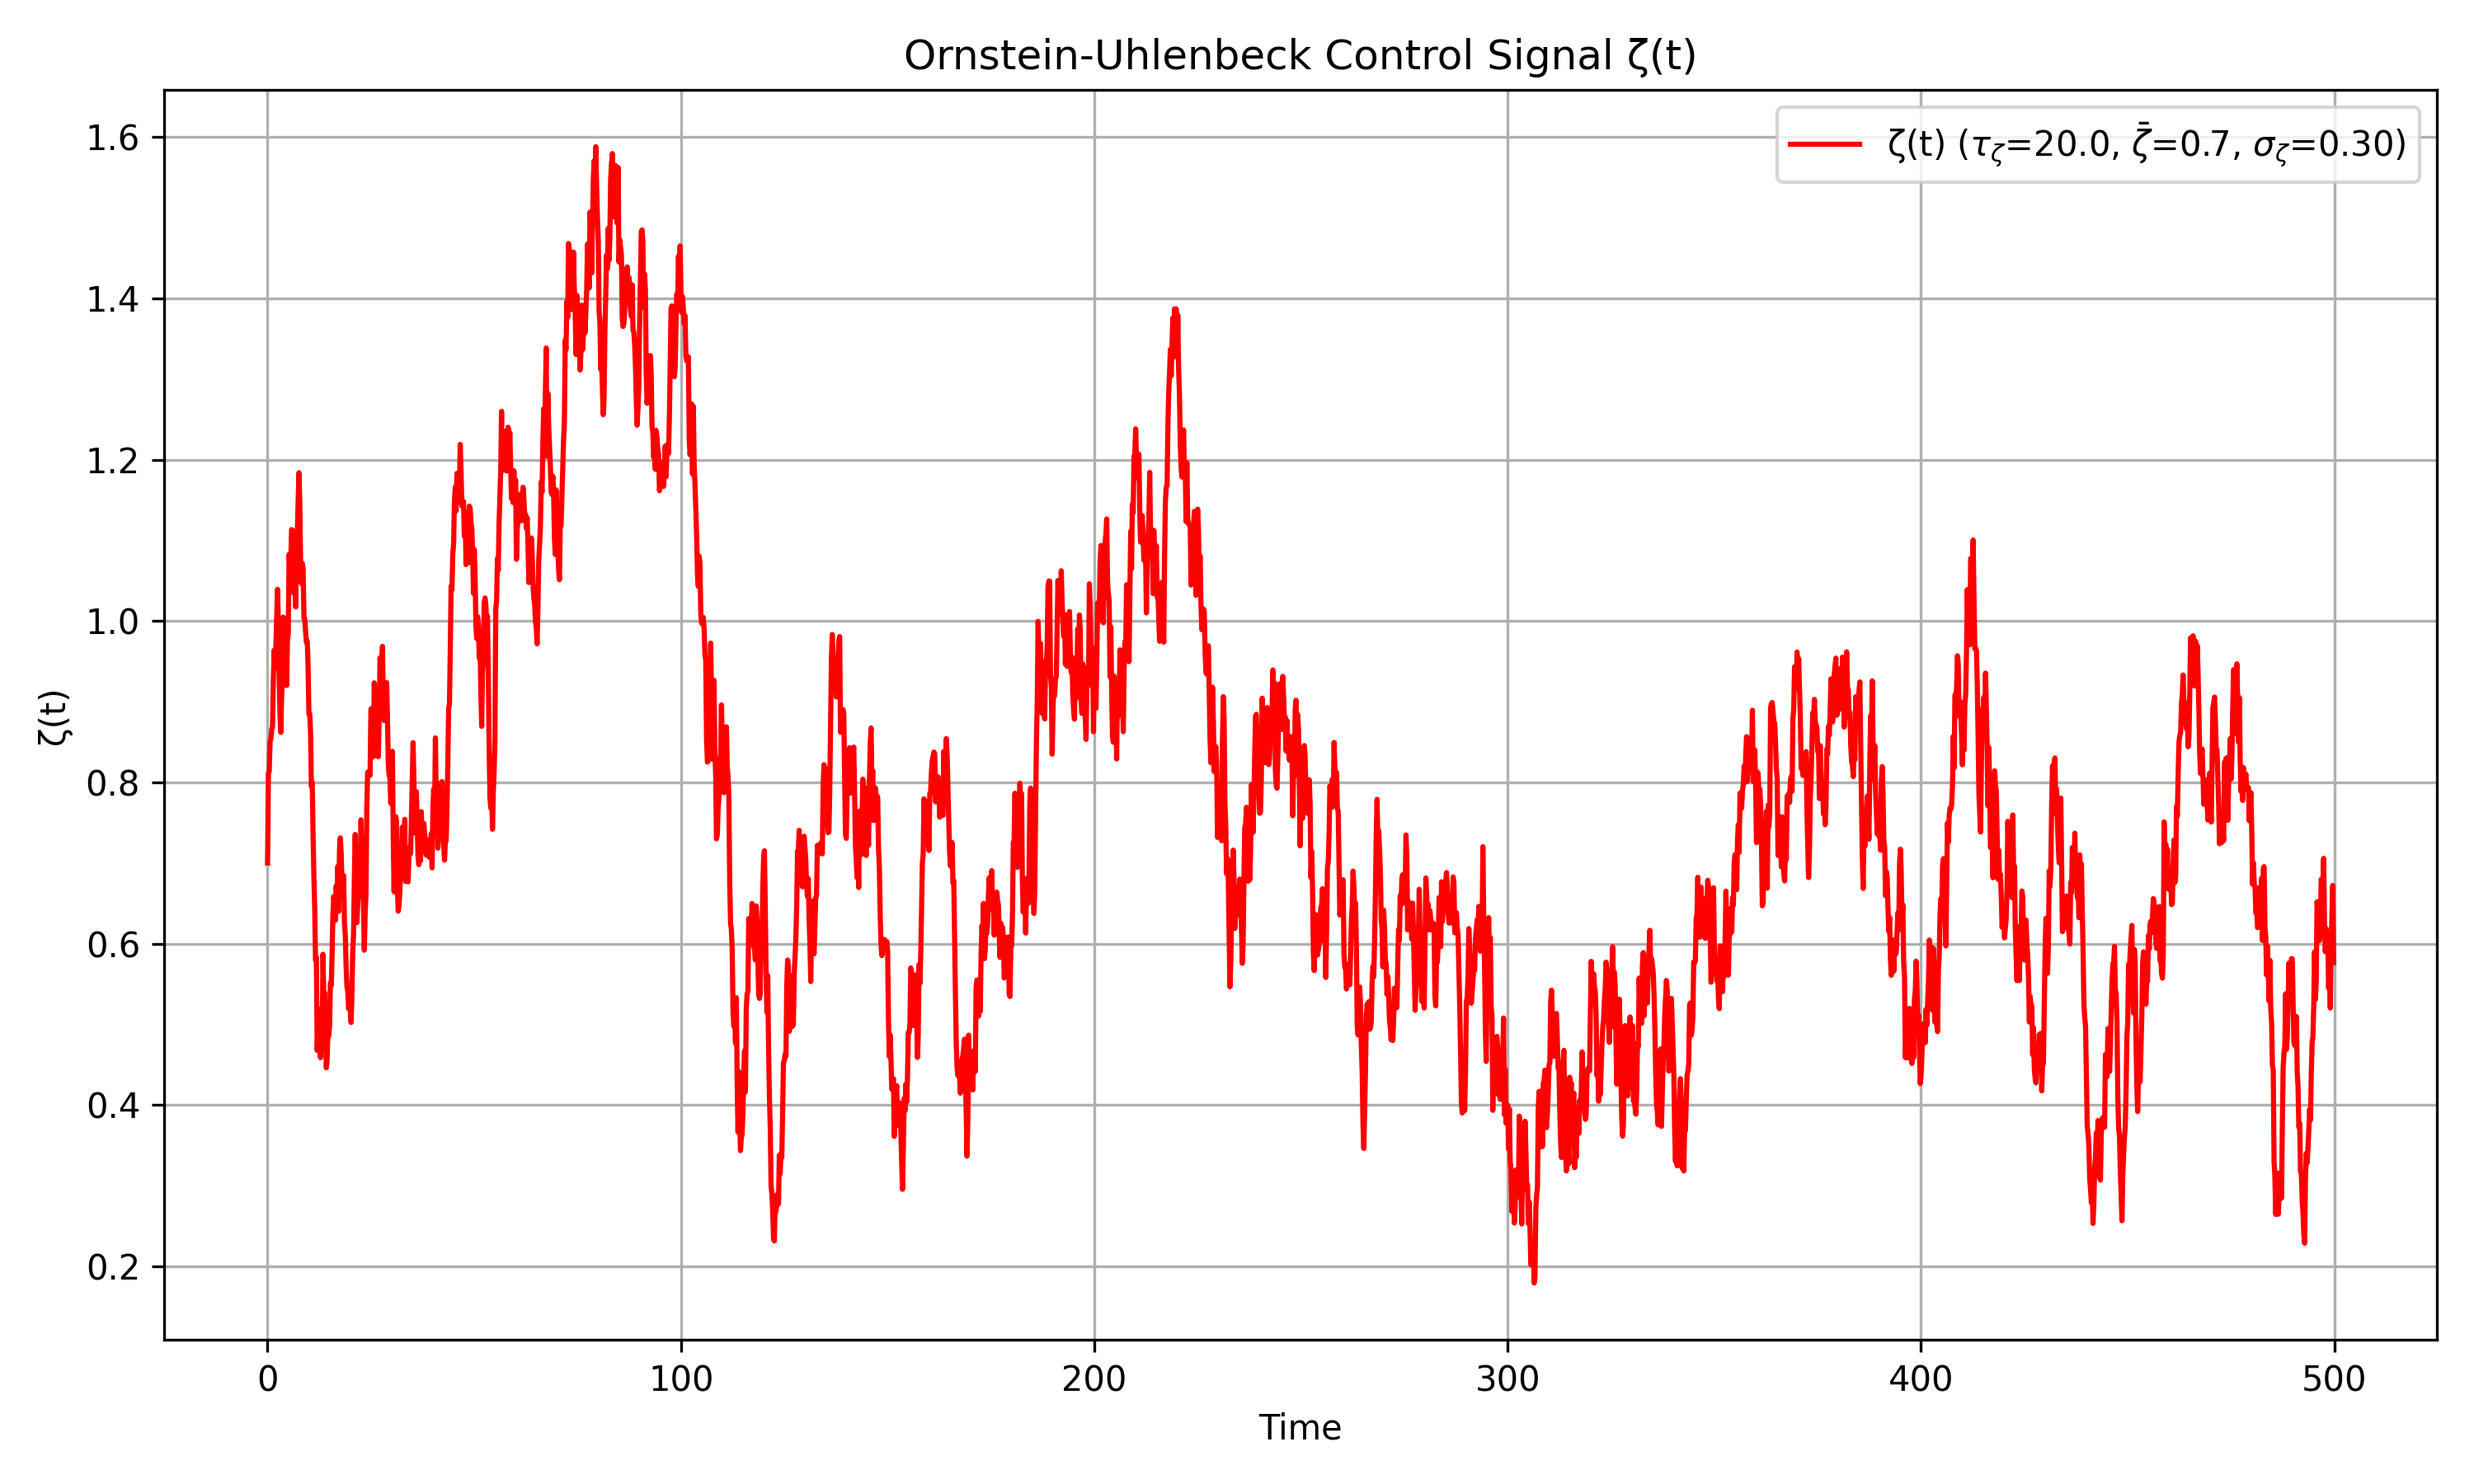
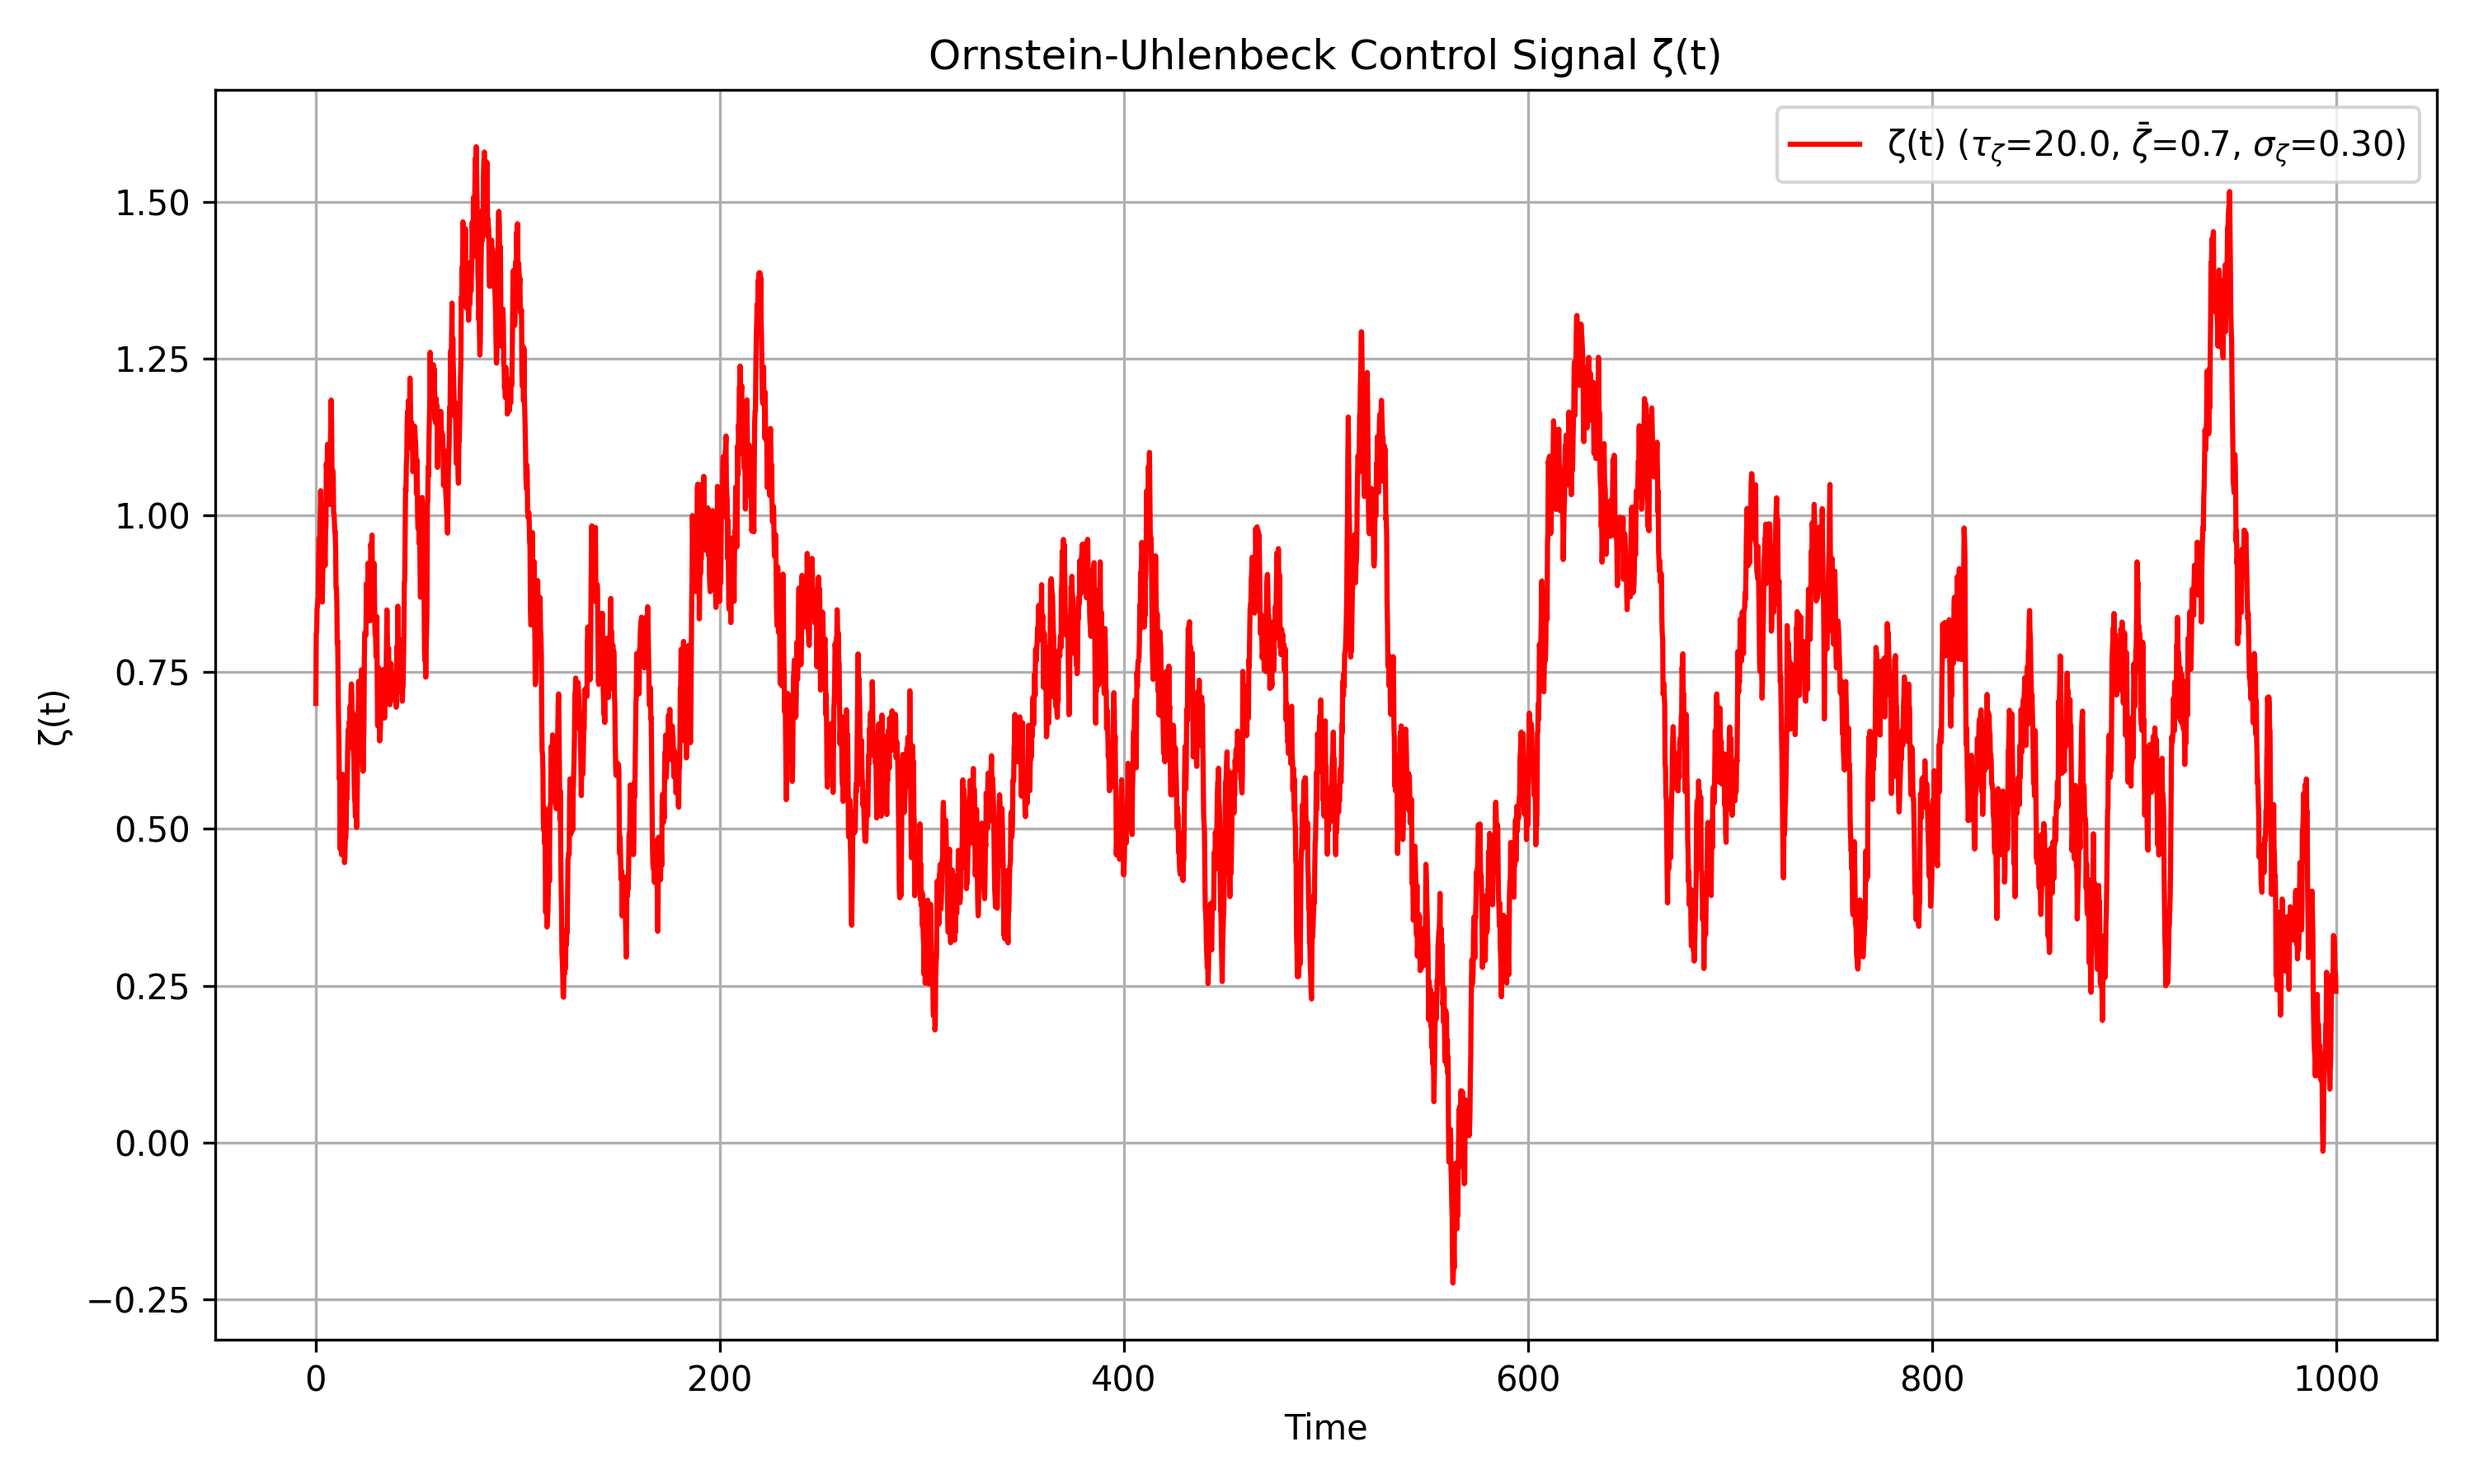
energy calculation solved issue

diff --git a/src/main.py b/src/main.py
@@ -1,7 +1,7 @@
 #!/usr/bin/env python3
 """
 Neural network dynamics simulation for local execution
-This script allows you to generate connectivity matrices and run simulations without the Streamlit interface.
+This script allows you to generate connectivity matrices and run simulations.
 
 All parameters are configured in parameters.py - edit that file to change simulation settings.
 """
@@ -10,6 +10,7 @@ import numpy as np
 import matplotlib.pyplot as plt
 from modules.connectivity import generate_connectivity_matrix, plot_matrix
 from modules.dynamics import simulate_network, calculate_pattern_overlaps
+from modules.energy import compute_energy
 
 # Import all parameters from parameters.py
 from parameters import (
@@ -178,7 +179,7 @@ def main():
             "\nSkipping matrix plots for large network (N > 2000) to save time and resources."
         )
 
-    # Set up initial condition with proper noise calculation (matching app.py)
+    # Set up initial condition with proper noise calculation 
     if init_cond_type == "Random":
         initial_condition = np.random.normal(0, 0.1, N)
         print("Initialized with random values.")
@@ -198,12 +199,12 @@ def main():
     else:  # Near Memory Pattern
         if p > 0:
             pattern = eta[pattern_idx % p]
-            # Add noise scaled relative to pattern magnitude (matching app.py fix)
+            # Add noise scaled relative to pattern magnitude
             pattern_std = np.std(pattern)
             noise = np.random.normal(0, noise_level * pattern_std, N)
             initial_condition = pattern + noise
 
-            # Calculate similarity (matching app.py)
+            # Calculate similarity
             norm_pattern = pattern / np.linalg.norm(pattern)
             norm_initial = initial_condition / np.linalg.norm(
                 initial_condition)
@@ -618,6 +619,47 @@ def main():
 
     plt.show()
     plt.close('all')  # Close all figures to free memory
+
+    # Calculate and plot energy
+    connectivity_path = os.path.join(npy_dir, "connectivity_total.npy")
+    overlaps_path = os.path.join(npy_dir, "pattern_overlaps.npy")
+    original_symm_path = os.path.join(npy_dir, "connectivity_symmetric.npy")
+    original_asymm_path = os.path.join(npy_dir, "connectivity_asymmetric.npy")
+    history_path = os.path.join(npy_dir, "firing_rates.npy")
+    W, h = np.load(connectivity_path), np.load(history_path)
+    W_symm = np.load(original_symm_path)
+    W_asymm = np.load(original_asymm_path)
+    # plot energy trajectories both original and divided with symmetric and antisymmetric components
+    E_total_traj = compute_energy(W, h)
+    E_symm_traj = compute_energy(W_symm, h)
+    E_asymm_traj = compute_energy(W_asymm, h)
+    t = np.arange(E_total_traj.shape[0])  # but time steps are dt seconds apart so multiply by dt
+    t = t * dt
+    plt.figure(figsize=(12, 6))
+    plt.plot(t, E_total_traj, label='Total Energy', color='blue')
+    plt.plot(t, E_symm_traj, label='Symmetric Energy', color='green')
+    plt.plot(t, E_asymm_traj, label='Asymmetric Energy', color='red')
+    plt.xlabel('Time Steps')
+    plt.ylabel('Energy')
+    plt.title('Energy Trajectories (Original symmetric and asymmetric components)')
+    plt.legend()
+    plt.grid()
+    plt.savefig(os.path.join(output_dir, "energy_trajectories_original.png"))
+    plt.show()
+    plt.figure(figsize=(12, 6))
+    W_symm_new = 0.5 * (W + W.T)
+    W_antisym_new = 0.5 * (W - W.T)
+    E_symm_new_traj, E_asymm_new_traj = compute_energy(W_symm_new, h), compute_energy(W_antisym_new, h)
+    plt.plot(t, E_total_traj, label='Total Energy', color='blue')
+    plt.plot(t, E_symm_new_traj, label='Symmetric Energy (New)', color='green')
+    plt.plot(t, E_asymm_new_traj, label='Antisymmetric Energy (New)', color='red')
+    plt.xlabel('Time Steps')
+    plt.ylabel('Energy')
+    plt.title('Energy Trajectories (New symmetric and antisymmetric components)')
+    plt.legend()
+    plt.grid()
+    plt.savefig(os.path.join(output_dir, "energy_trajectories_new.png"))
+    plt.show()
 
 if __name__ == "__main__":
     main()

diff --git a/src/parameters.py b/src/parameters.py
@@ -55,7 +55,7 @@ apply_er_to_asymmetric = False  # Apply Erdős-Rényi to asymmetric component
 # Time and integration parameters
 tau = 20.0              # Time constant for neural dynamics
 t_start = 0.0           # Simulation start time
-t_end = 500.0           # Simulation end time
+t_end = 1000.0           # Simulation end time
 dt = 0.2                # Time step for simulation output (increased for efficiency)
 
 # Performance optimization
@@ -64,7 +64,7 @@ use_numba = False        # Enable Numba JIT compilation for large networks (N > 
 # Initial condition settings
 init_cond_type = "Near Memory Pattern"  # Options: "Random", "Zero", "Memory Pattern", "Near Memory Pattern"
 pattern_idx = 0         # Which pattern to use (0-indexed) if using pattern-based init
-noise_level = 0.9       # Noise level if using "Near Memory Pattern" init
+noise_level = 0.1       # Noise level if using "Near Memory Pattern" init
 
 # Simulation options
 use_symmetric_only = False   # Whether to use only the symmetric component (W^S)

diff --git a/src/modules/energy.py b/src/modules/energy.py
@@ -1,0 +1,24 @@
+""" energy.py
+This module computes the energy trajectories of a neural network simulation.
+It loads the connectivity matrix and firing rates from .npy files and calculates the energy
+based on the connectivity and firing rates. The energy is computed as the quadratic form
+E = h^T W h, where h is the firing rate vector and W is the connectivity matrix.
+The results are saved in the 'loaded_results' directory.
+It also computes the energy trajectories for both the original symmetric and asymmetric components
+and the new symmetric and antisymmetric components derived from the total connectivity matrix.
+"""
+
+import numpy as np
+
+def compute_energy(W, h):
+    """
+    Compute the total energy of the system given the connectivity matrix W and history h.
+    """
+    # Ensure h is a column vector
+    if h.ndim == 1:
+        h = h[:, np.newaxis]
+    # Total energy
+    E_mat = h @ W @ h.T
+    # Sum over the 0 axis to get a scalar
+    E_traj = np.sum(E_mat, axis=0)
+    return E_traj

diff --git a/src/loader.py b/src/loader.py
@@ -17,6 +17,7 @@ It assumes the following directory structure:
 - loaded_results/ (where the output plots will be saved)
 Note that both directories simulation_results/npy and loaded_results are in the .gitignore file.
 """
+
 import os
 import numpy as np
 import matplotlib.pyplot as plt
